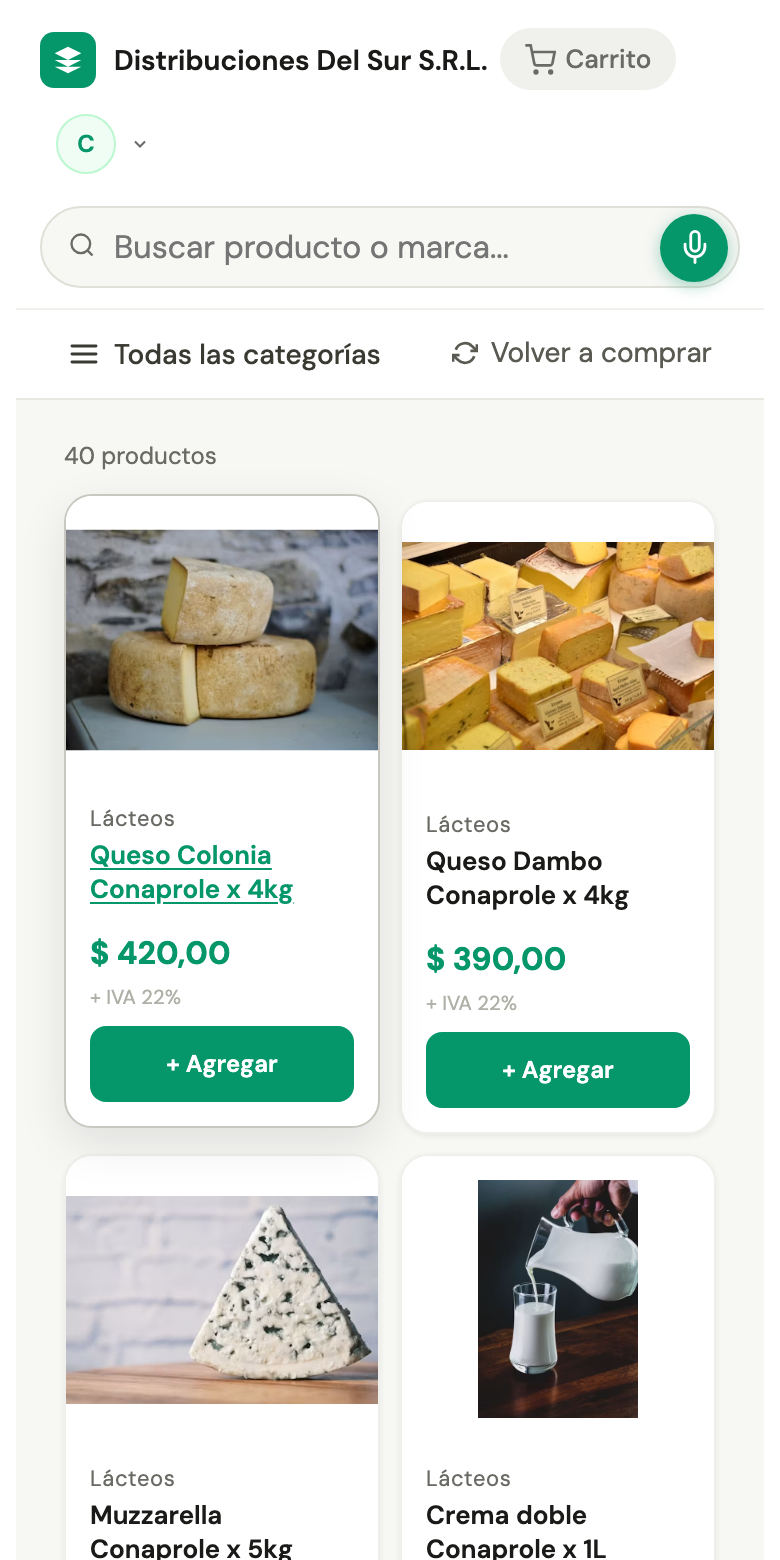
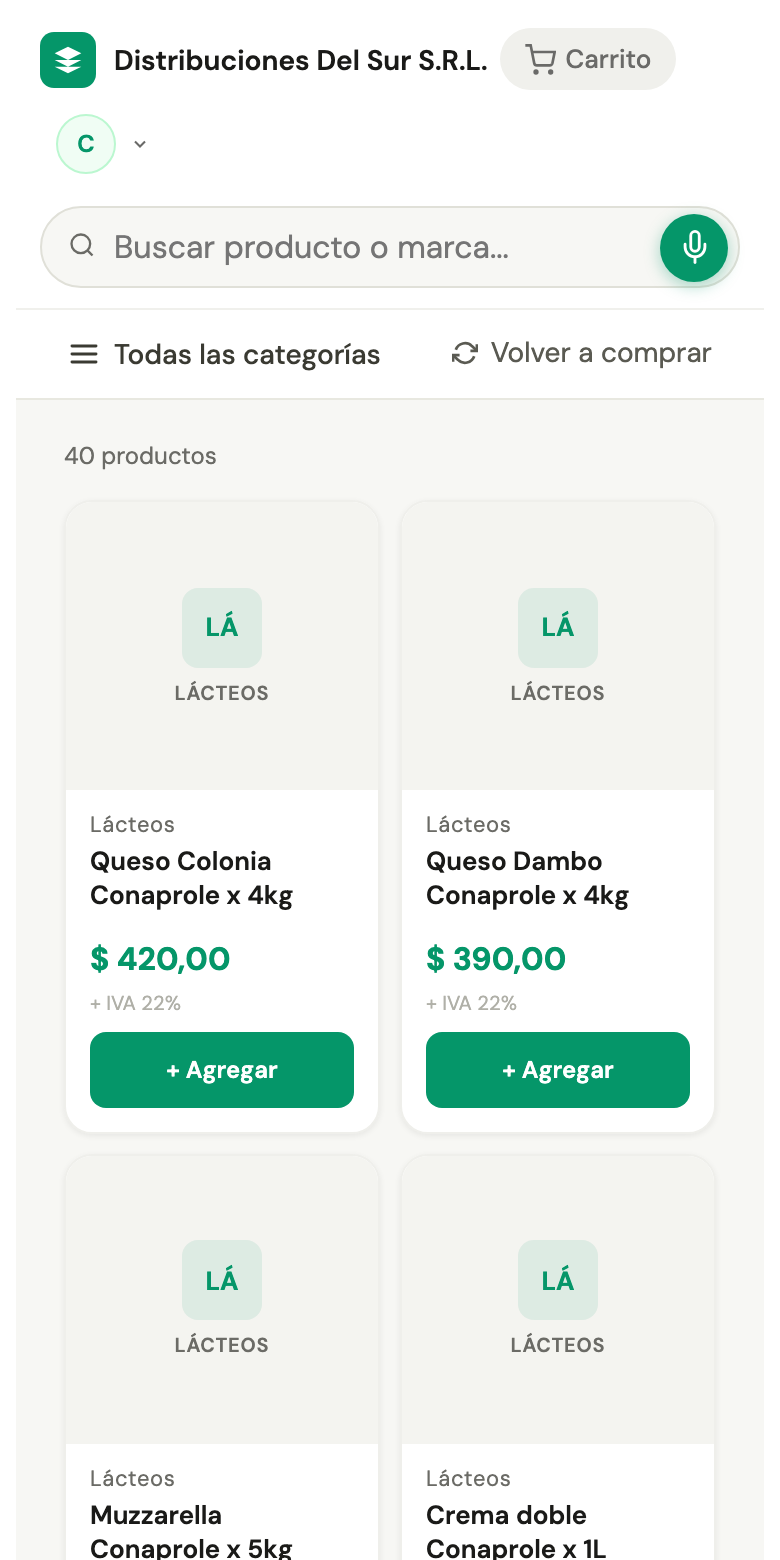
fix(landing): screenshot sin fotos — clean placeholder consistente

diff --git a/src/demo/demo-horeca.js b/src/demo/demo-horeca.js
@@ -31,14 +31,14 @@ export const demoHoreca = {
 
   products: [
     // Lácteos — Conaprole
-    { id: 'h1', name: 'Queso Colonia Conaprole x 4kg', sku: 'LAC-001', category: 'Lácteos', supplier_id: 's1', unit: 'kg', price: 420, cost: 310, stock: 85, min_stock: 20, iva_rate: 22, imagen_url: 'https://images.unsplash.com/photo-1486297678162-eb2a19b0a32d?w=400&auto=format&q=75' },
-    { id: 'h2', name: 'Queso Dambo Conaprole x 4kg', sku: 'LAC-002', category: 'Lácteos', supplier_id: 's1', unit: 'kg', price: 390, cost: 285, stock: 62, min_stock: 15, iva_rate: 22, imagen_url: 'https://images.unsplash.com/photo-1552767059-ce182ead6c1b?w=400&auto=format&q=75' },
-    { id: 'h3', name: 'Muzzarella Conaprole x 5kg', sku: 'LAC-003', category: 'Lácteos', supplier_id: 's1', unit: 'kg', price: 350, cost: 260, stock: 120, min_stock: 30, iva_rate: 22, imagen_url: 'https://images.unsplash.com/photo-1626957341926-98752fc2ba90?w=400&auto=format&q=75' },
-    { id: 'h4', name: 'Crema doble Conaprole x 1L', sku: 'LAC-004', category: 'Lácteos', supplier_id: 's1', unit: 'un', price: 145, cost: 105, stock: 48, min_stock: 12, iva_rate: 22, imagen_url: 'https://images.unsplash.com/photo-1550583724-b2692b85b150?w=400&auto=format&q=75' },
-    { id: 'h5', name: 'Manteca Conaprole x 2kg', sku: 'LAC-005', category: 'Lácteos', supplier_id: 's1', unit: 'un', price: 520, cost: 395, stock: 35, min_stock: 10, iva_rate: 22, imagen_url: 'https://images.unsplash.com/photo-1589985270826-4b7bb135bc9d?w=400&auto=format&q=75' },
-    { id: 'h6', name: 'Dulce de leche Conaprole x 1kg', sku: 'LAC-006', category: 'Lácteos', supplier_id: 's1', unit: 'un', price: 210, cost: 155, stock: 40, min_stock: 10, iva_rate: 22, imagen_url: 'https://images.unsplash.com/photo-1587049352846-4a222e784d38?w=400&auto=format&q=75' },
-    { id: 'h7', name: 'Ricotta Conaprole x 1kg', sku: 'LAC-007', category: 'Lácteos', supplier_id: 's1', unit: 'un', price: 175, cost: 128, stock: 28, min_stock: 8, iva_rate: 22, imagen_url: 'https://images.unsplash.com/photo-1559561853-08451507cbe7?w=400&auto=format&q=75' },
-    { id: 'h8', name: 'Yogur natural Conaprole x 5L', sku: 'LAC-008', category: 'Lácteos', supplier_id: 's1', unit: 'un', price: 290, cost: 210, stock: 18, min_stock: 6, iva_rate: 22, imagen_url: 'https://images.unsplash.com/photo-1571212515416-fca325c7b3fd?w=400&auto=format&q=75' },
+    { id: 'h1', name: 'Queso Colonia Conaprole x 4kg', sku: 'LAC-001', category: 'Lácteos', supplier_id: 's1', unit: 'kg', price: 420, cost: 310, stock: 85, min_stock: 20, iva_rate: 22, imagen_url: null },
+    { id: 'h2', name: 'Queso Dambo Conaprole x 4kg', sku: 'LAC-002', category: 'Lácteos', supplier_id: 's1', unit: 'kg', price: 390, cost: 285, stock: 62, min_stock: 15, iva_rate: 22, imagen_url: null },
+    { id: 'h3', name: 'Muzzarella Conaprole x 5kg', sku: 'LAC-003', category: 'Lácteos', supplier_id: 's1', unit: 'kg', price: 350, cost: 260, stock: 120, min_stock: 30, iva_rate: 22, imagen_url: null },
+    { id: 'h4', name: 'Crema doble Conaprole x 1L', sku: 'LAC-004', category: 'Lácteos', supplier_id: 's1', unit: 'un', price: 145, cost: 105, stock: 48, min_stock: 12, iva_rate: 22, imagen_url: null },
+    { id: 'h5', name: 'Manteca Conaprole x 2kg', sku: 'LAC-005', category: 'Lácteos', supplier_id: 's1', unit: 'un', price: 520, cost: 395, stock: 35, min_stock: 10, iva_rate: 22, imagen_url: null },
+    { id: 'h6', name: 'Dulce de leche Conaprole x 1kg', sku: 'LAC-006', category: 'Lácteos', supplier_id: 's1', unit: 'un', price: 210, cost: 155, stock: 40, min_stock: 10, iva_rate: 22, imagen_url: null },
+    { id: 'h7', name: 'Ricotta Conaprole x 1kg', sku: 'LAC-007', category: 'Lácteos', supplier_id: 's1', unit: 'un', price: 175, cost: 128, stock: 28, min_stock: 8, iva_rate: 22, imagen_url: null },
+    { id: 'h8', name: 'Yogur natural Conaprole x 5L', sku: 'LAC-008', category: 'Lácteos', supplier_id: 's1', unit: 'un', price: 290, cost: 210, stock: 18, min_stock: 6, iva_rate: 22, imagen_url: null },
 
     // Carnes — BPU
     { id: 'h9', name: 'Bife angosto sin hueso x kg', sku: 'CAR-001', category: 'Carnes', supplier_id: 's2', unit: 'kg', price: 580, cost: 440, stock: 45, min_stock: 15, iva_rate: 22, imagen_url: null },
